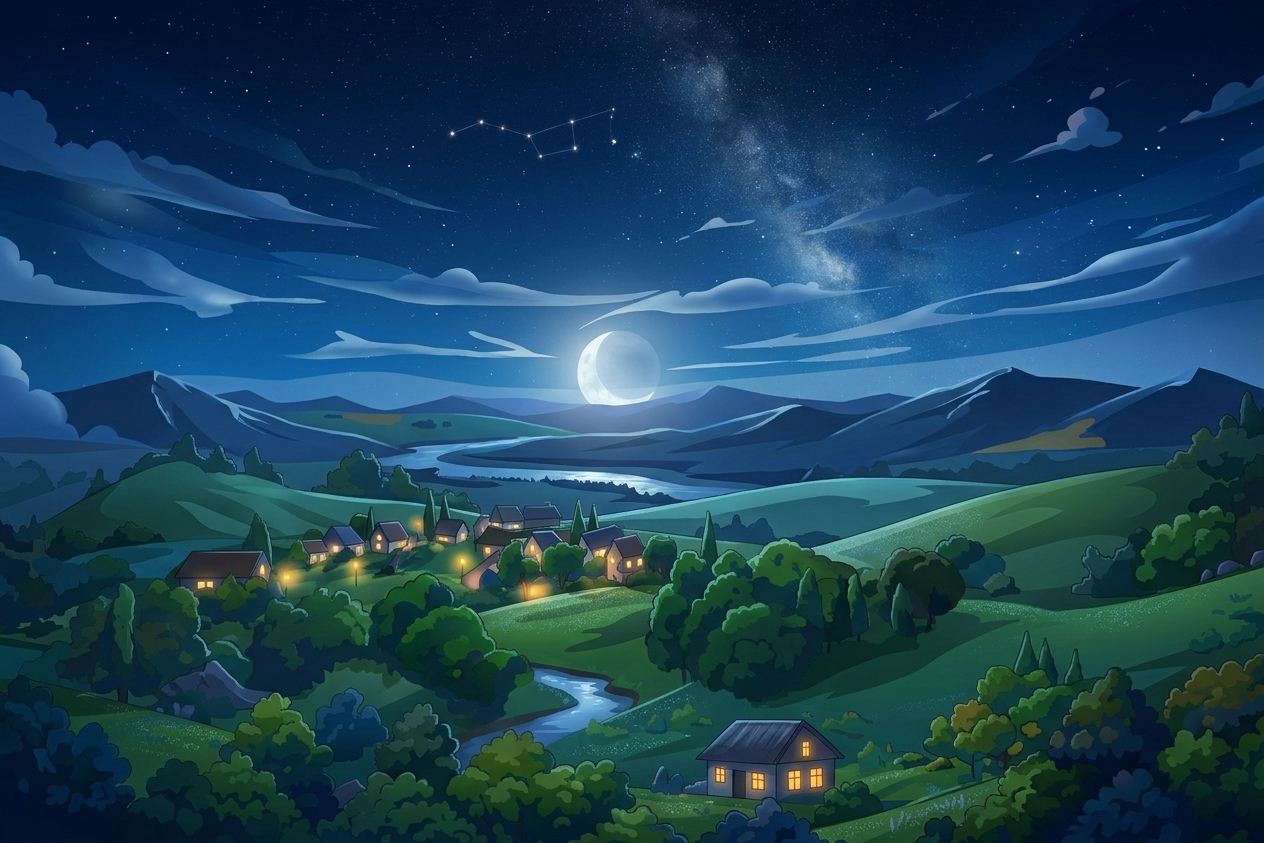
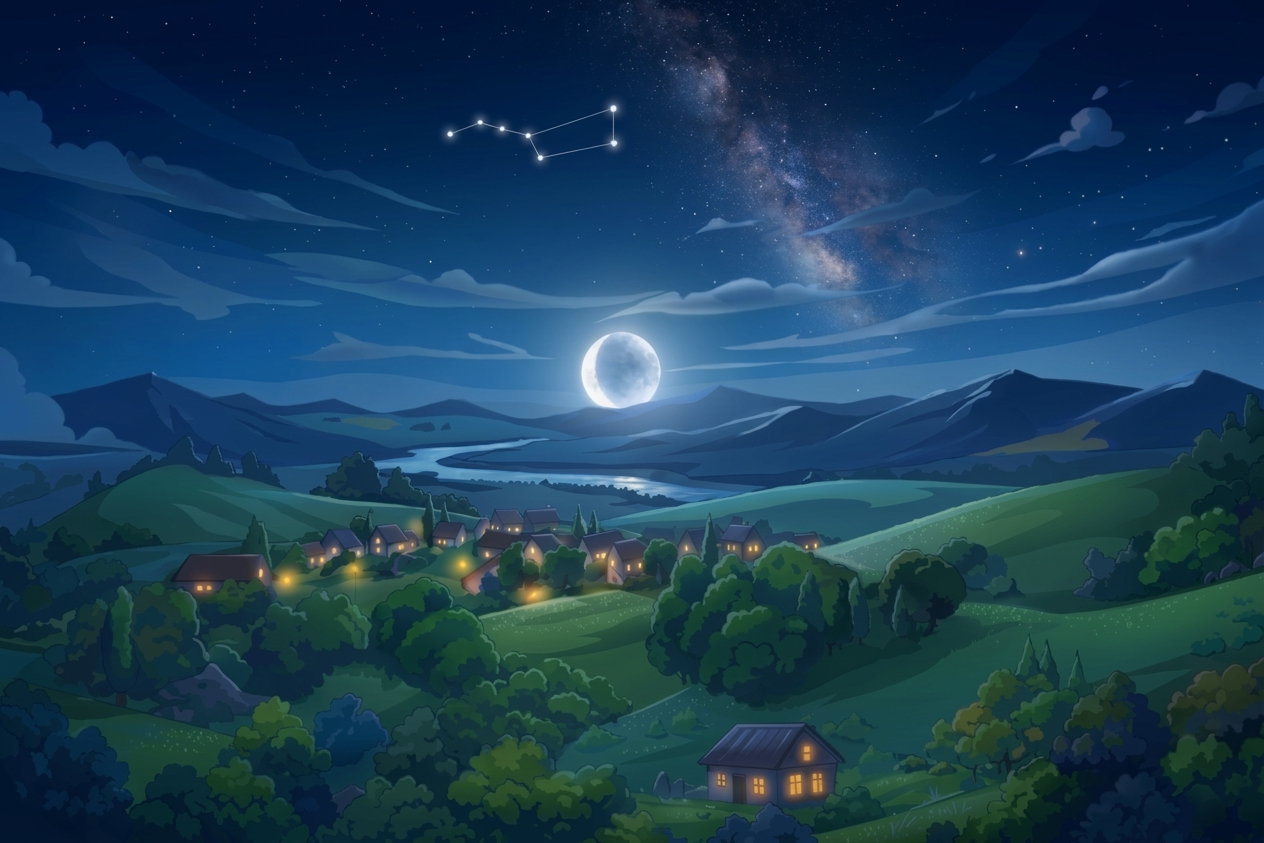
fixed style

diff --git a/pokedex/src/components/Header/Header.module.css b/pokedex/src/components/Header/Header.module.css
@@ -1,5 +1,3 @@
-
-
 .Header {
   width: 100%;
   max-width: 100%;
@@ -10,7 +8,7 @@
   background-size: cover;
   background-position: center;
   font-family: "Inter", sans-serif;
-  transition: background-image 0.3s ease; 
+  transition: background-image 0.3s ease;
 }
 
 .HeaderDay {
@@ -100,7 +98,7 @@
   display: flex;
   flex-direction: column;
   align-items: center;
-gap: 60px;
+  gap: 60px;
   width: 100%;
   min-width: 0;
   box-sizing: border-box;
@@ -146,12 +144,21 @@ gap: 60px;
 }
 
 .hero__pikachu {
-  display: none;
+  position: absolute;
+  top: 125px;
+  right: 0;
+  width: 130px;
+}
+
+@media (min-width: 518px) {
+  .hero__pikachu {
+    top: 80px;
+  }
 }
 
 .searchBar {
   display: flex;
-margin-top: 30px;
+  margin-top: 30px;
   align-items: stretch;
   gap: 8px;
   width: 100%;
@@ -228,8 +235,6 @@ margin-top: 30px;
 .searchBar__button:active {
   transform: scale(0.96);
 }
-
-
 
 @media screen and (min-width: 1024px) {
   .Header {
@@ -366,11 +371,11 @@ margin-top: 30px;
 
   .hero__pikachu {
     display: block;
-    width: 130px;
+    width: 230px;
     height: auto;
     position: absolute;
-    right: -110px;
-    bottom: -10px;
+    right: 30px;
+    top: -130px;
     z-index: 2;
   }
 }

diff --git a/pokedex/index.html b/pokedex/index.html
@@ -2,7 +2,7 @@
 <html lang="en">
   <head>
     <meta charset="UTF-8" />
-    <link rel="icon" type="image/svg+xml" href="/favicon.svg" />
+    <link rel="icon" type="image/svg+xml" href="public/icons.svg" />
     <meta name="viewport" content="width=device-width, initial-scale=1.0" />
     <link rel="preconnect" href="https://fonts.googleapis.com">
 <link rel="preconnect" href="https://fonts.gstatic.com" crossorigin>
